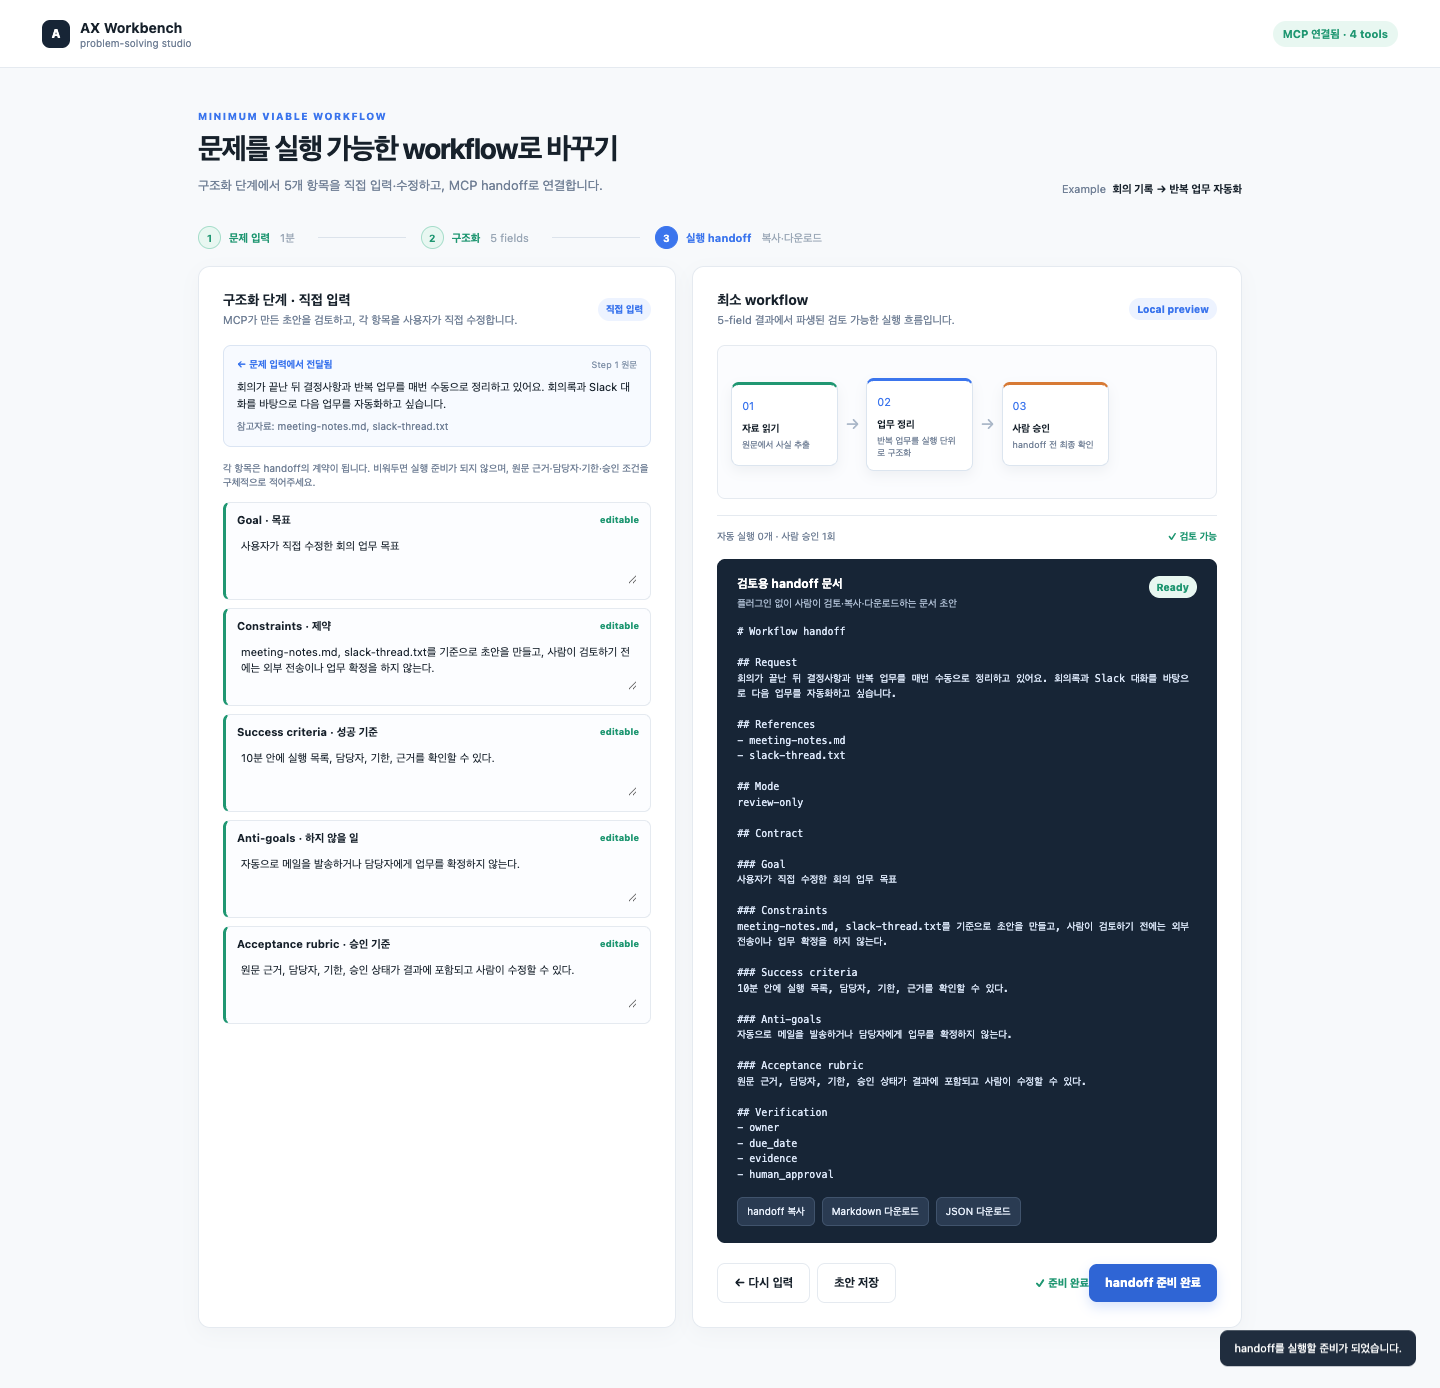
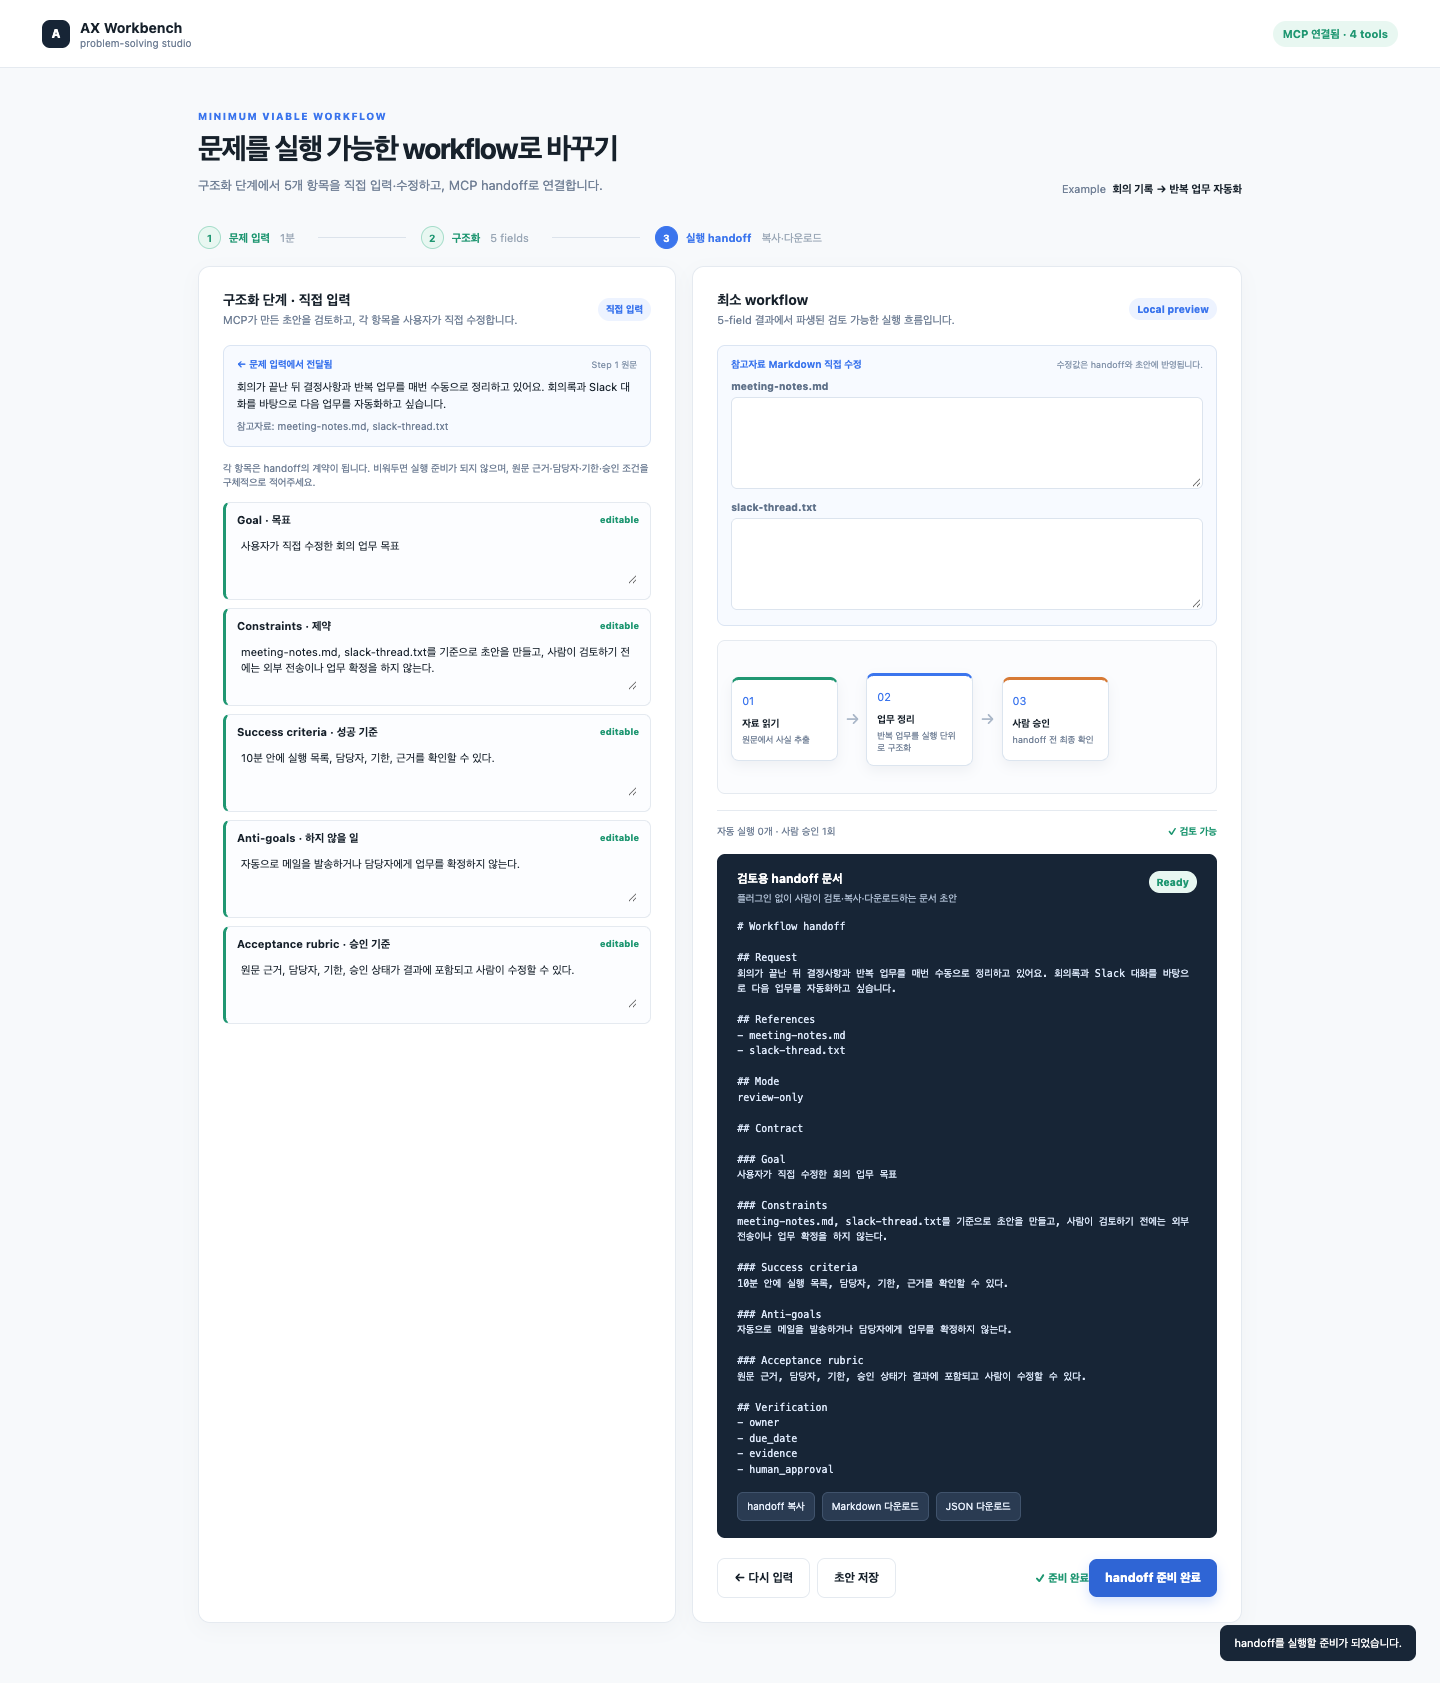
feat: allow editing converted reference Markdown

diff --git a/apps/workbench/demo/mvp.html b/apps/workbench/demo/mvp.html
@@ -87,6 +87,15 @@
     .source-context-head span { color: #8293aa; font-size: 9px; }
     .source-request { color: var(--ink); font-size: 11px; line-height: 1.5; margin: 0; }
     .source-refs { color: var(--muted); font-size: 10px; line-height: 1.45; margin: 7px 0 0; }
+    .reference-editor { border: 1px solid #dbe5f3; background: #f7faff; border-radius: 8px; padding: 12px 13px; margin-bottom: 14px; }
+    .reference-editor-head { display: flex; justify-content: space-between; align-items: center; gap: 10px; margin-bottom: 8px; }
+    .reference-editor-head strong { font-size: 10px; color: var(--blue); }
+    .reference-editor-head span { color: #8293aa; font-size: 9px; }
+    .reference-edit { margin-top: 9px; }
+    .reference-edit:first-of-type { margin-top: 0; }
+    .reference-edit label { display: block; color: #60728a; font-size: 10px; font-weight: 800; margin-bottom: 5px; }
+    .reference-edit textarea { width: 100%; min-height: 92px; resize: vertical; border: 1px solid #dce4ee; border-radius: 6px; background: #fff; color: var(--ink); padding: 9px 10px; font: 11px/1.5 ui-monospace, SFMono-Regular, Menlo, monospace; outline: 0; }
+    .reference-edit textarea:focus { border-color: var(--blue); box-shadow: 0 0 0 3px rgba(59, 117, 237, .1); }
     .flow { border: 1px solid var(--line); background: #fbfcfe; border-radius: 8px; padding: 17px 13px 13px; display: flex; align-items: center; gap: 7px; min-height: 154px; }
     .flow-node { width: 107px; min-height: 84px; background: #fff; border: 1px solid #dce5ef; border-top: 3px solid var(--green); border-radius: 8px; padding: 10px; box-shadow: 0 5px 12px rgba(30, 50, 75, .06); }
     .flow-node.current { border-top-color: var(--blue); }
@@ -169,6 +178,7 @@
 
         <article class="card workflow">
           <div class="card-title"><div><h2>최소 workflow</h2><p class="sub">5-field 결과에서 파생된 검토 가능한 실행 흐름입니다.</p></div><span class="badge blue">Local preview</span></div>
+          <div class="reference-editor" id="referenceEditor"><div class="reference-editor-head"><strong>참고자료 Markdown 직접 수정</strong><span>수정값은 handoff와 초안에 반영됩니다.</span></div></div>
           <div class="flow"><div class="flow-node"><i>01</i><b>자료 읽기</b><span>원문에서 사실 추출</span></div><span class="arrow">→</span><div class="flow-node current"><i>02</i><b>업무 정리</b><span id="workflowMiddle">결정·담당·기한 구조화</span></div><span class="arrow">→</span><div class="flow-node next"><i>03</i><b>사람 승인</b><span>handoff 전 최종 확인</span></div></div>
           <div class="workflow-foot"><span>자동 실행 0개 · 사람 승인 1회</span><b id="workflowStatus">✓ safe to review</b></div>
           <div class="output"><div class="output-head"><div><h3>검토용 handoff 문서</h3><p>플러그인 없이 사람이 검토·복사·다운로드하는 문서 초안</p></div><span class="badge green" id="handoffBadge">Draft</span></div><div class="code" id="handoffText"></div><div class="download-row"><button type="button" id="copy">handoff 복사</button><button type="button" id="downloadMd">Markdown 다운로드</button><button type="button" id="downloadJson">JSON 다운로드</button></div></div>
@@ -379,6 +389,32 @@
       return `# Workflow handoff\n\n## Request\n${state.request || "(empty)"}\n\n## References\n${refs}\n\n## Mode\nreview-only\n\n## Contract\n\n### Goal\n${c.goal || "(needs input)"}\n\n### Constraints\n${c.constraints || "(needs input)"}\n\n### Success criteria\n${c.success_criteria || "(needs input)"}\n\n### Anti-goals\n${c.anti_goals || "(needs input)"}\n\n### Acceptance rubric\n${c.acceptance_rubric || "(needs input)"}\n\n## Verification\n- owner\n- due_date\n- evidence\n- human_approval`;
     }
 
+    function renderHandoff() {
+      $("#handoffText").textContent = makeHandoff();
+    }
+
+    function renderReferenceEditor() {
+      const editor = $("#referenceEditor");
+      editor.replaceChildren();
+      const head = document.createElement("div"); head.className = "reference-editor-head";
+      const title = document.createElement("strong"); title.textContent = "참고자료 Markdown 직접 수정";
+      const hint = document.createElement("span"); hint.textContent = "수정값은 handoff와 초안에 반영됩니다.";
+      head.append(title, hint); editor.append(head);
+      state.refs.forEach((ref, index) => {
+        const reference = normalizeReference(ref);
+        const block = document.createElement("div"); block.className = "reference-edit";
+        const label = document.createElement("label"); label.textContent = reference.name;
+        const textarea = document.createElement("textarea");
+        textarea.value = reference.content;
+        textarea.setAttribute("aria-label", `Markdown 참고자료 · ${reference.name}`);
+        textarea.addEventListener("input", (event) => {
+          state.refs[index] = { ...normalizeReference(state.refs[index]), content: event.target.value };
+          state.approved = false; state.stage = "frame"; saveDraft(); renderHandoff();
+        });
+        block.append(label, textarea); editor.append(block);
+      });
+    }
+
     function renderContract() {
       const complete = contractReady() === fieldKeys.length;
       $("#contractBadge").textContent = "직접 입력";
@@ -392,7 +428,8 @@
       });
       $("#requestPreview").textContent = state.request || "문제 입력이 없습니다.";
       $("#referencePreview").textContent = state.refs.length ? `참고자료: ${state.refs.map((ref) => referenceName(ref)).join(", ")}` : "참고자료: 없음";
-      $("#handoffText").textContent = makeHandoff();
+      renderReferenceEditor();
+      renderHandoff();
       $("#approve").disabled = !complete;
       $("#workflowStatus").textContent = complete ? "✓ 검토 가능" : "필수 항목을 직접 입력하세요";
       $("#workflowMiddle").textContent = state.request.includes("자동화") ? "반복 업무를 실행 단위로 구조화" : "문제를 실행 단위로 구조화";

diff --git a/tests/e2e/test_workbench.py b/tests/e2e/test_workbench.py
@@ -99,17 +99,23 @@ def test_user_can_edit_contract_and_prepare_handoff(workbench_server, chromium_e
         expect(page.locator("#referencePreview")).to_contain_text("meeting-notes.md")
         expect(page.locator("body")).not_to_contain_text("5 / 5 complete")
 
+        reference_editor = page.get_by_role("textbox", name="Markdown 참고자료 · decisions.html")
+        expect(reference_editor).to_have_value("# Decision\n\nReview the draft by Friday.")
+        reference_editor.fill("# 사람이 수정한 결정\n\n- 금요일까지 검토")
+        expect(page.locator("#handoffText")).to_contain_text("# 사람이 수정한 결정")
+
         goal = page.locator('textarea[aria-label="Goal"]')
         goal.fill("사용자가 직접 고친 목표")
         page.get_by_role("button", name="초안 저장").last.click()
         page.reload()
         goal = page.locator('textarea[aria-label="Goal"]')
         expect(goal).to_have_value("사용자가 직접 고친 목표")
+        expect(page.get_by_role("textbox", name="Markdown 참고자료 · decisions.html")).to_have_value("# 사람이 수정한 결정\n\n- 금요일까지 검토")
         expect(page.locator("#handoffText")).to_contain_text("사용자가 직접 고친 목표")
         expect(page.locator("#handoffText")).to_contain_text("## Request")
         expect(page.locator("#handoffText")).to_contain_text("회의가 끝난 뒤 결정사항과 반복 업무")
         expect(page.locator("#handoffText")).to_contain_text("meeting-notes.md")
-        expect(page.locator("#handoffText")).to_contain_text("# Decision")
+        expect(page.locator("#handoffText")).to_contain_text("# 사람이 수정한 결정")
         expect(page.locator("#handoffText")).not_to_contain_text("<h1>Decision</h1>")
         expect(page.locator("#handoffText")).to_contain_text(f"Path: {reference_path}")
         expect(page.locator("#handoffText")).to_contain_text("## Uploaded decision")
